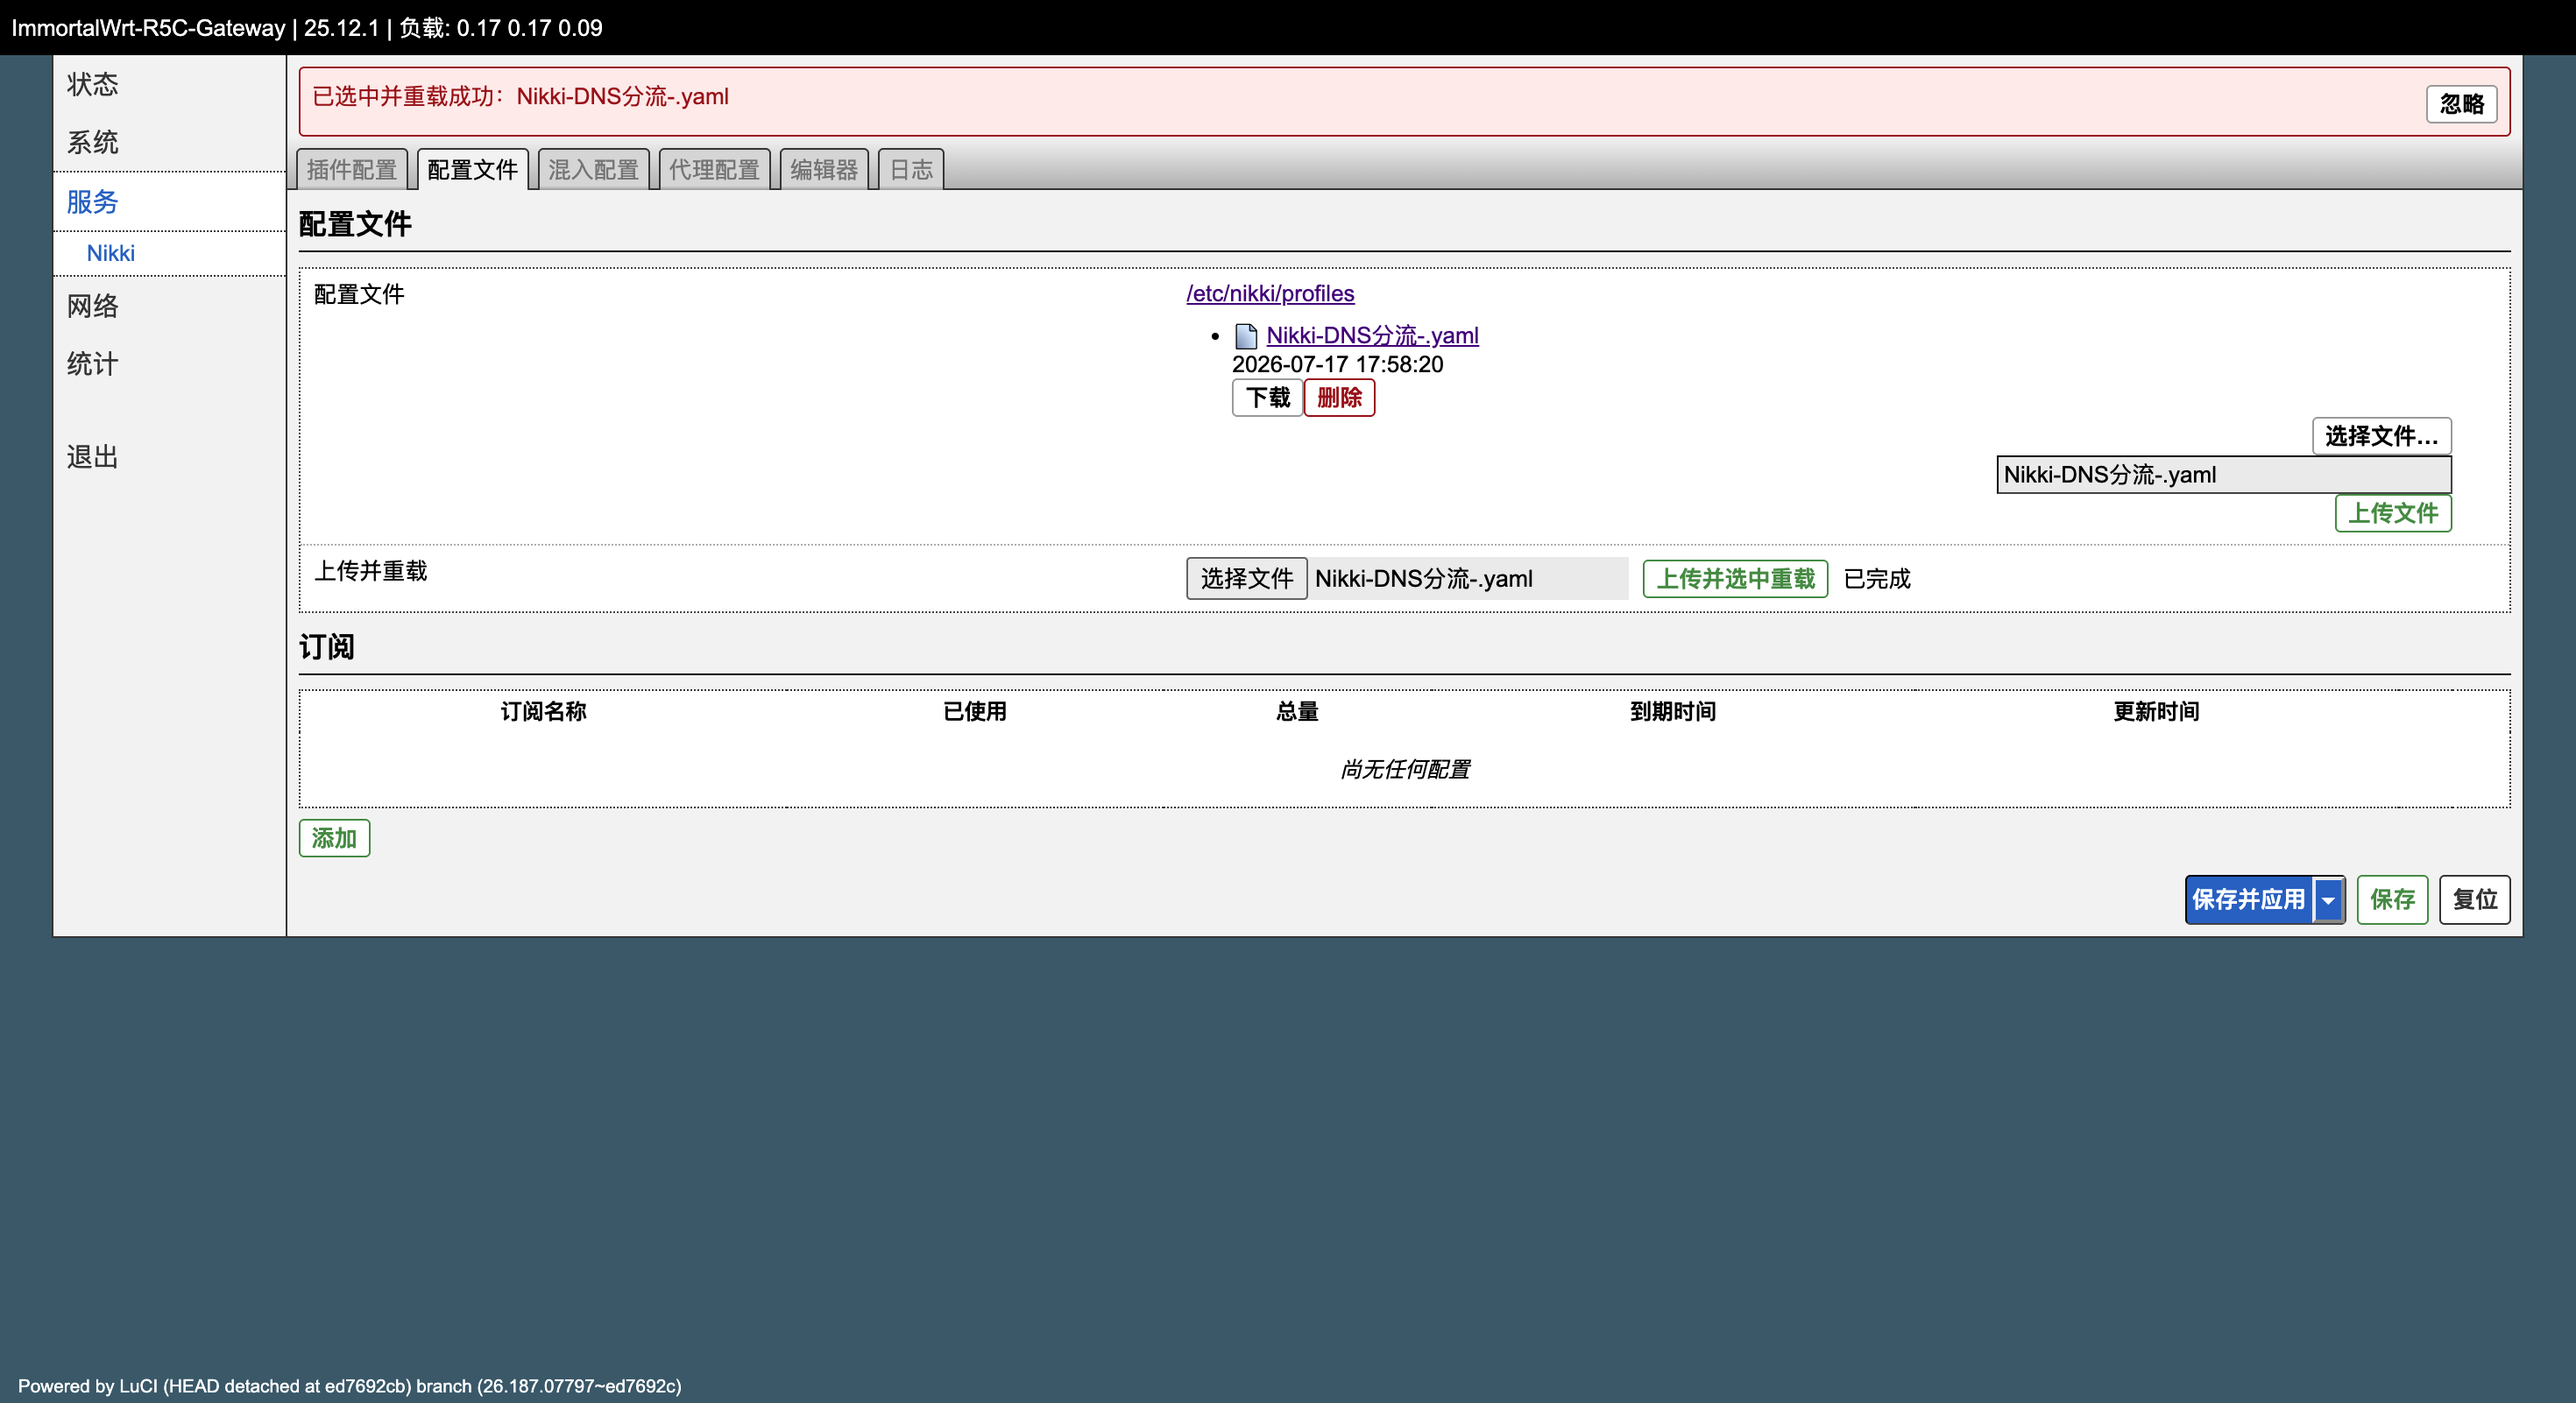
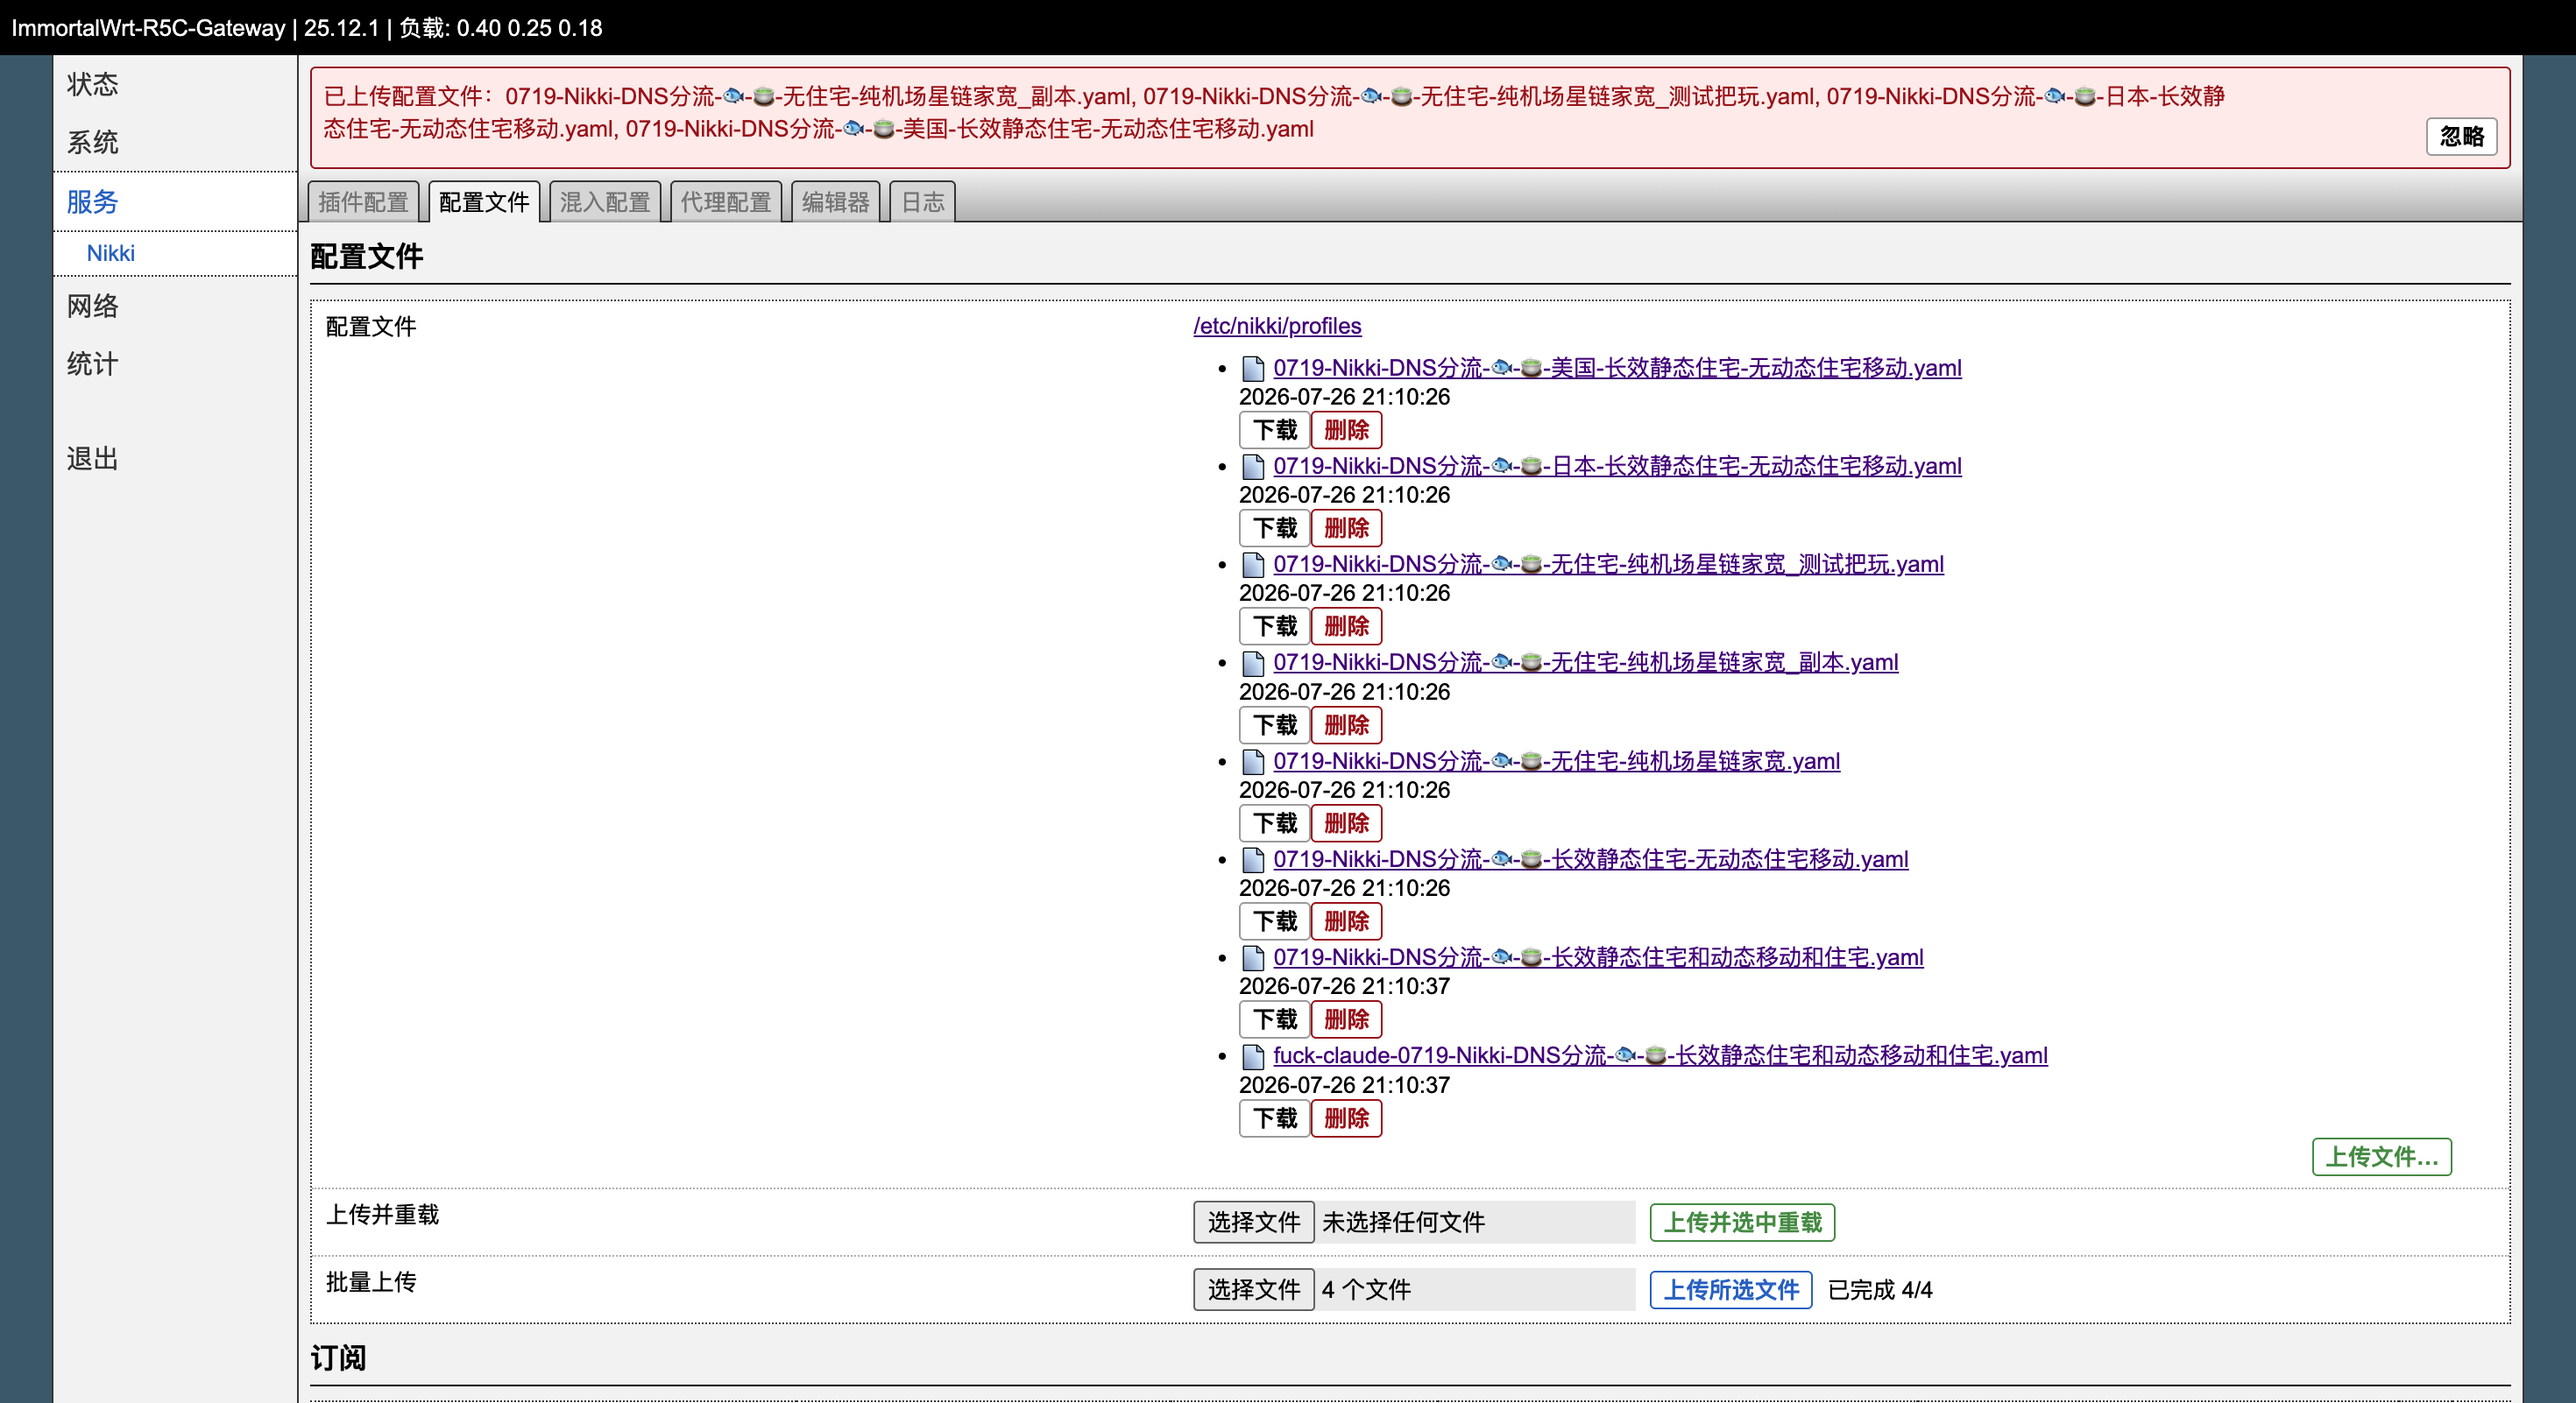
docs: update batch upload screenshot

diff --git a/README.md b/README.md
@@ -21,7 +21,7 @@
 
 ## 效果截图
 
-![上传并选中重载效果](docs/images/nikki-profile-upload-reload.png)
+![批量上传和上传并选中重载效果](docs/images/nikki-profile-upload-reload.png)
 
 ## 从 0 安装
 

diff --git a/README.zh.md b/README.zh.md
@@ -21,7 +21,7 @@
 
 ## 效果截图
 
-![上传并选中重载效果](docs/images/nikki-profile-upload-reload.png)
+![批量上传和上传并选中重载效果](docs/images/nikki-profile-upload-reload.png)
 
 ## 从 0 安装
 
